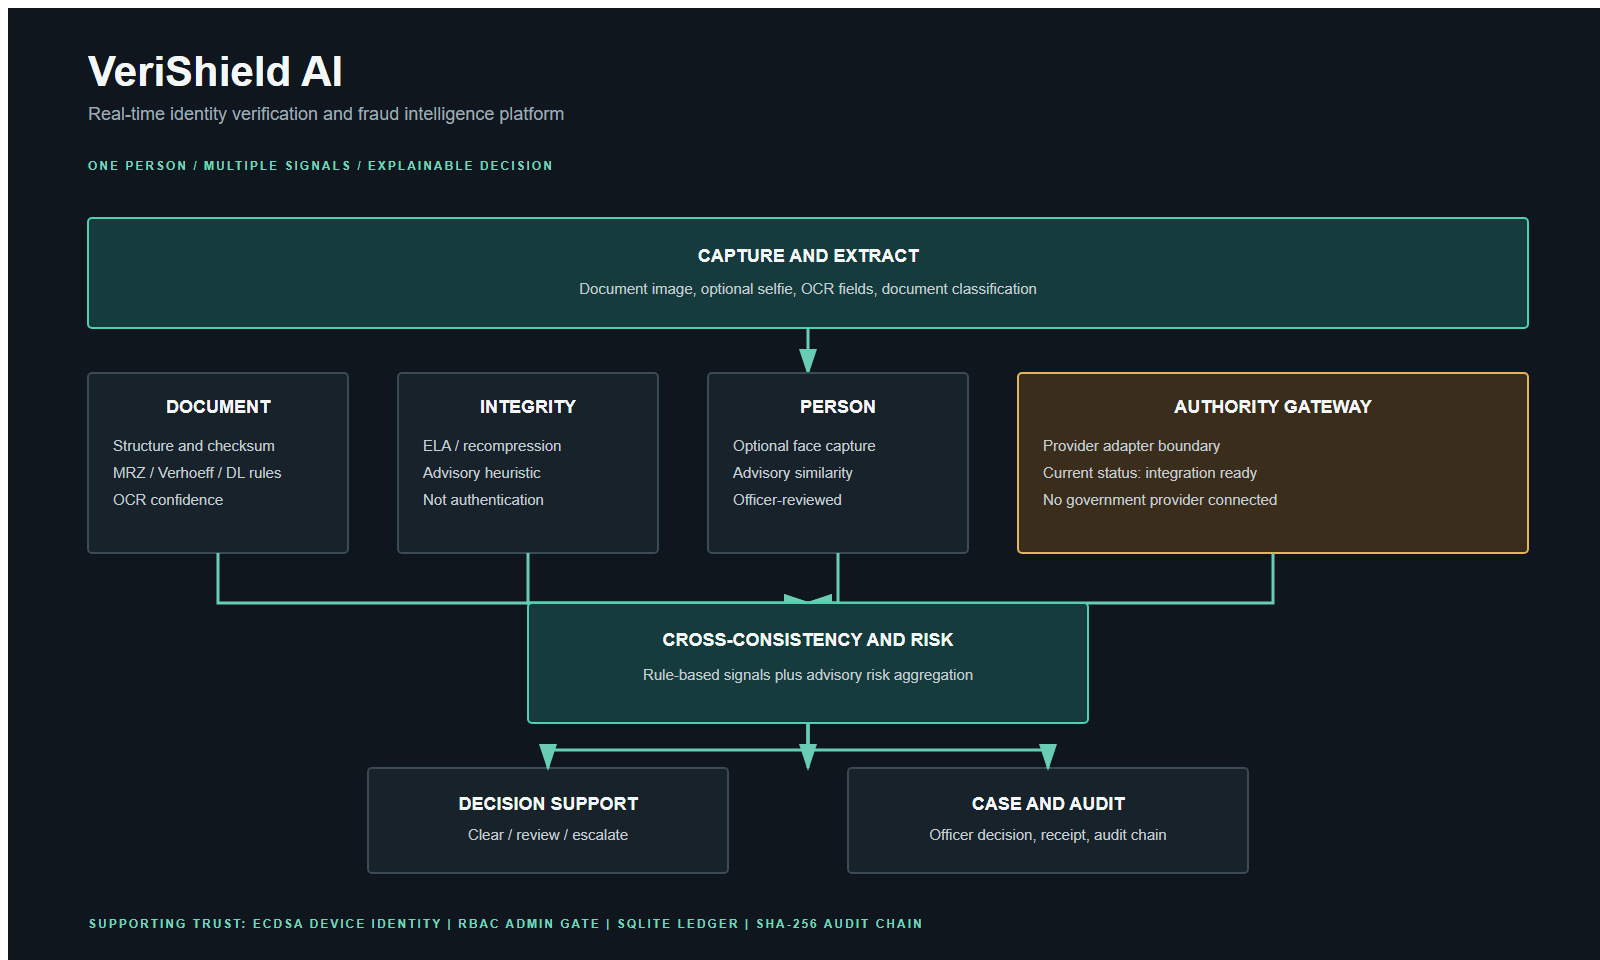
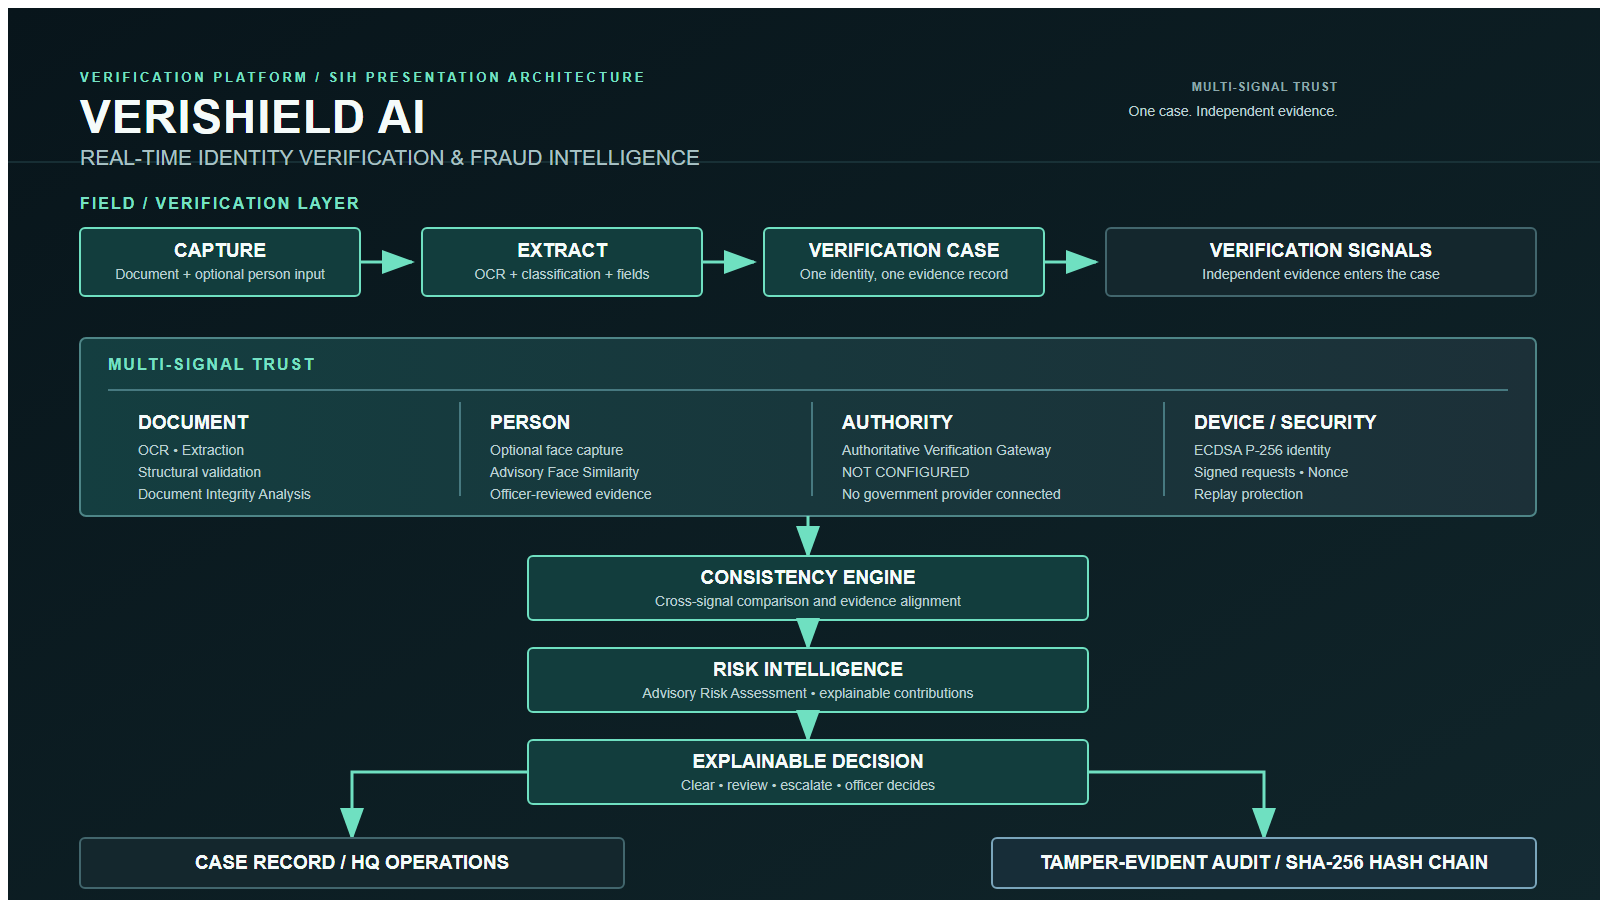
docs: finalize SIH architecture direction

diff --git a/docs/SIH_ARCHITECTURE_NOTES.md b/docs/SIH_ARCHITECTURE_NOTES.md
@@ -1,0 +1,73 @@
+# VeriShield AI: SIH Architecture Notes
+
+## 1. Architecture Explanation
+
+VeriShield AI is a multi-signal identity verification platform prototype. A verification case combines document signals, person signals, authority status, and device-security context into one evidence record. The system then compares available signals, produces an explainable advisory assessment, requires an officer decision, and preserves the resulting record through a tamper-evident audit chain. The differentiator is **multi-signal trust**: the product does not reduce identity verification to OCR and a green tick.
+
+## 2. Main Data Flow
+
+```text
+Capture
+  -> Extract
+  -> Verification Case
+  -> Document / Person / Authority / Device Signals
+  -> Consistency
+  -> Advisory Risk Assessment
+  -> Explainable Decision
+  -> Case Record
+  -> HQ Operations
+  -> Tamper-Evident Audit Chain
+```
+
+The current browser path performs OCR, document classification, field extraction, structural checks, Document Integrity Analysis, optional Advisory Face Similarity, and deterministic Advisory Risk Assessment locally. Derived evidence is stored in the local receipt ledger. When connected, the client signs and synchronizes the derived session to the FastAPI HQ service.
+
+## 3. Security Flow
+
+1. A device is enrolled with a one-time enrollment code and an ECDSA P-256 proof of possession.
+2. The device signs the canonical synchronization request with its browser-held key.
+3. HQ verifies the registered device, officer, checkpoint, timestamp, nonce, signature, allowed values, and idempotency rules.
+4. The backend persists the accepted session and audit events atomically.
+5. Audit events are linked with a SHA-256 hash chain and can be verified from the HQ admin surface.
+
+Current prototype limitations: nonce and rate-limit state are process-local, the browser key is stored in IndexedDB rather than hardware-bound, and the ledger is SQLite.
+
+## 4. Offline Capability
+
+Offline capability is a resilience feature, not the primary presentation claim. The browser can run the local verification engine without a network connection, store a derived receipt locally, and mark it pending sync. Raw images, face crops, and heatmaps are not persisted in the session record. When connectivity returns, signed derived results can be pushed to HQ.
+
+## 5. Connected Verification Flow
+
+When connected, the field device synchronizes a signed verification session to `/sync/session`. HQ validates the device-security envelope and stores the derived evidence for admin statistics, case review, intelligence aggregation, export, and audit verification. The current backend receives completed client-derived signals; it does not yet orchestrate every signal as one server-side connected pipeline.
+
+The Authoritative Verification Gateway is the integration boundary for future authorized providers. Its current state is **NOT CONFIGURED**. No UIDAI, Passport Seva, Parivahan, or other government database call is implemented.
+
+## 6. Current Limitations
+
+- Authoritative government verification is not configured.
+- The backend does not yet orchestrate all verification signals as one connected pipeline.
+- The current risk result is advisory and deterministic; it is not an official risk score.
+- Document Integrity Analysis is an uncalibrated ELA/recompression heuristic.
+- Advisory Face Similarity is not biometric authentication.
+- CASE-001 through CASE-006 deterministic demo fixtures are not currently seeded.
+- SQLite, process-local nonce/rate-limit state, and IndexedDB keys are prototype deployment choices.
+- There is no blockchain, HSM, TPM production binding, or production PKI integration.
+
+## 7. Future Integrations
+
+Future work may add authorized provider adapters behind the Authoritative Verification Gateway, a shared versioned verification-session service, PostgreSQL and distributed replay/rate-limit state, WebAuthn or hardware-backed key binding, calibrated integrity/face models, and deterministic presentation fixtures. These are architectural extension points, not current capabilities.
+
+## 8. Exact Safe Claims for PPT
+
+Use these claims:
+
+- **Real-time identity verification platform prototype with multi-signal trust analysis.**
+- **On-device OCR, document classification, field extraction, and structural validation.**
+- **Document Integrity Analysis using an advisory ELA/recompression heuristic.**
+- **Advisory Face Similarity for decision support, not face authentication.**
+- **Advisory Risk Assessment with explainable deterministic contributions, not an official risk score.**
+- **ECDSA P-256 device identity, signed synchronization, timestamp and nonce replay checks.**
+- **Tamper-Evident Audit Chain using SHA-256 hash linking, not blockchain.**
+- **Authoritative Verification Gateway designed for future authorized integrations; currently NOT CONFIGURED.**
+- **Derived evidence and masked identity fields are synchronized; raw document images are not stored in the session ledger.**
+
+Do not claim live UIDAI, Passport Seva, Parivahan, government database access, blockchain, HSM, TPM production binding, biometric authentication, official fraud scoring, or nationwide deployment.

diff --git a/docs/VERISHIELD_IMPLEMENTATION_AUDIT.md b/docs/VERISHIELD_IMPLEMENTATION_AUDIT.md
@@ -61,12 +61,12 @@ An untracked `verishield.db` was present after the test run. It is generated run
 | RBAC/authentication | PARTIAL | Admin passcode and token gate; device/officer authorization | No complete role model for HQ/officer/reviewer/device operators | Admin login E2E is environment-gated | Explicit roles, sessions, revocation, audit |
 | Audit chain | IMPLEMENTED | SHA-256 hash-chained audit rows and verification endpoint | Local SQLite and process deployment assumptions | Tested and visible in admin | Durable HQ ledger and alerting |
 | Privacy controls | IMPLEMENTED / PARTIAL | Raw upload TTL/volatile storage, masked numbers, derived-only sync | Retention/purpose/consent UX and deployment storage policy are incomplete | Masked receipts work | Add retention policy controls and evidence inventory |
-| Case investigation | PARTIAL | Admin session detail and review update | No dedicated case route, timeline, evidence graph, or reason-first investigation workspace | Admin detail is usable | Create first-class case experience |
+| Case investigation | IMPLEMENTED / PARTIAL | `/cases` provides an evidence-led local investigation route; admin provides synced session detail and review updates | No full timeline/evidence graph or six-case fixture set | Route is usable with stored sessions | Expand timeline and deterministic demo fixtures |
 | HQ command center | PARTIAL | Admin stats, analytics, session table, export | Generic admin surface; no operational hierarchy, alerting, device/officer status | Stats can be demonstrated with synced sessions | Redesign around operational questions |
-| Fraud intelligence | PARTIAL | Analytics counts derived from stored checks/scores | No cluster/anomaly model; no rule/model/future signal taxonomy | Signals are aggregate counts | Add defensible rule-based intelligence page |
+| Fraud intelligence | IMPLEMENTED / PARTIAL | `/intelligence` presents observed rule-based signals and separates model-based/future AI status | No cluster/anomaly model; counts depend on stored sessions | Route is usable with local records | Add validated anomaly analysis only when evidence exists |
 | Demo scenarios CASE-001..006 | MISSING | Existing seed data covers checkpoint/officers/devices only | Requested deterministic cases do not exist | Cannot claim six-case demo | Add clearly labelled derived demo fixtures |
 | Responsive/accessibility | PARTIAL | Semantic controls, ARIA status regions, responsive Tailwind layouts exist | No complete viewport/accessibility audit; current visual system remains prototype-like | Basic workflow works | Run browser checks and redesign surfaces |
-| Architecture exports | PARTIAL | Existing architecture assets/scripts are present under older names | Requested real-time export names/content are absent | Not aligned to new story | Generate presentation and technical exports |
+| Architecture exports | IMPLEMENTED | Presentation-ready 16:9 real-time architecture plus detailed technical architecture in SVG/PNG | Diagrams describe current prototype boundaries; they do not imply unavailable integrations | Ready for SIH presentation | Keep exports synchronized with implementation changes |
 
 ## Product Truth
 
@@ -100,3 +100,10 @@ The repository currently demonstrates a credible local document-screening protot
 - Added `docs/VeriShield_Technical_Architecture.svg` and `.png` for deeper implementation context.
 
 The requested CASE-001 through CASE-006 deterministic demo fixture set, connected multi-stage backend orchestration, durable distributed replay/rate-limit state, and authorized government adapters remain future work. They are intentionally not represented as implemented.
+
+## Final SIH Architecture Pass
+
+- Primary presentation architecture: `docs/VeriShield_RealTime_Architecture.svg` and `.png`, 1600x900 (16:9).
+- Technical architecture: `docs/VeriShield_Technical_Architecture.svg` and `.png`, with dashed future/optional infrastructure.
+- Presentation notes and exact safe claims: `docs/SIH_ARCHITECTURE_NOTES.md`.
+- No application technology stack or verification implementation was changed in this pass.
